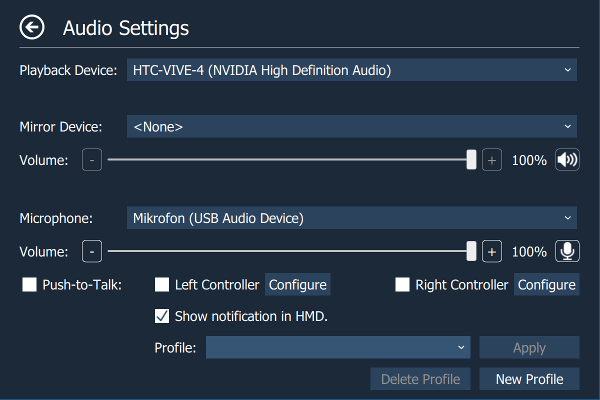
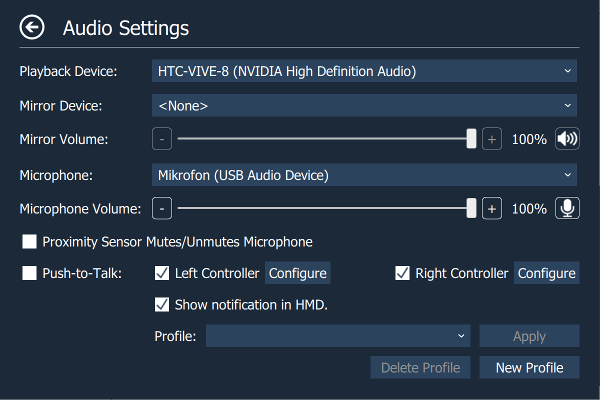
Updated readme and version to 2.4.

diff --git a/src/overlaycontroller.h b/src/overlaycontroller.h
@@ -45,7 +45,7 @@ class OverlayController : public QObject {
 public:
 	static constexpr const char* applicationKey = "matzman666.AdvancedSettings";
 	static constexpr const char* applicationName = "Advanced Settings";
-	static constexpr const char* applicationVersionString = "v2.3";
+	static constexpr const char* applicationVersionString = "v2.4";
 
 private:
 	vr::VROverlayHandle_t m_ulOverlayHandle = vr::k_ulOverlayHandleInvalid;

diff --git a/Readme.md b/Readme.md
@@ -60,11 +60,11 @@ Executing startdesktopmode.bat from the application folder shows a window on the
 
 ![SteamVR Page](https://raw.githubusercontent.com/matzman666/OpenVR-AdvancedSettings/master/docs/screenshots/SteamVRPage.png)
 
-- **Application Supersampling**: Supersampling setting for OpenVR applications/games (Requires restart).
-- **Compositor Supersampling**: Supersampling setting for the OpenVR compositor (Requires restart).
+- **Application Supersampling**: Supersampling setting for OpenVR applications/games. Application supersampling [now behaves linearly](https://steamcommunity.com/games/250820/announcements/detail/1256913672017664045) where 2.0 means twice the number of pixel.
+- **Compositor Render Target Multiplier**: Supersampling setting for the OpenVR compositor (Requires restart). Compositor supersampling still behaves the old way where 2.0 means four-times the number of pixel.
 - **Allow Asynchronous Reprojection**: Enable/disable asynchronous reprojection.
 - **Allow Interleaved Reprojection**: Enable/disable interleaved reprojection.
-- **Force Reprojection**: Enable/disable forced reprojection (Requires restart).
+- **Force Reprojection**: Enable/disable forced reprojection.
 - **Restart SteamVR**: Restart SteamVR.
 
 ## - Chaperone Page:
@@ -102,6 +102,7 @@ Allows you to fix the height of your floor. Just place one controller on your fl
 - **Playback Device**: Allows to select the playback device.
 - **Mirror Device**: Allows to select the mirror device, set its volume and to mute/unmute it.
 - **Microphone**: Allows to select the microphone device, set its volume and to mute/unmute it.
+- **Proximity Sensor Mutes/Unmutes Microphone**: Allows the proximity sensor to mute the microphone when the user is not wearing the HMD, and to unmute it when the user is wearing the HMD.
 - **Push-to-Talk**: Enable/disable push-to-talk. When push-to-talk is activated the microphone gets muted unless one of the configured buttons is pressed on one of the configured controllers.
 - **Left Controller**: Configure the left controller for push-to-talk.
 - **Right Controller**: Configure the right controller for push-to-talk.
